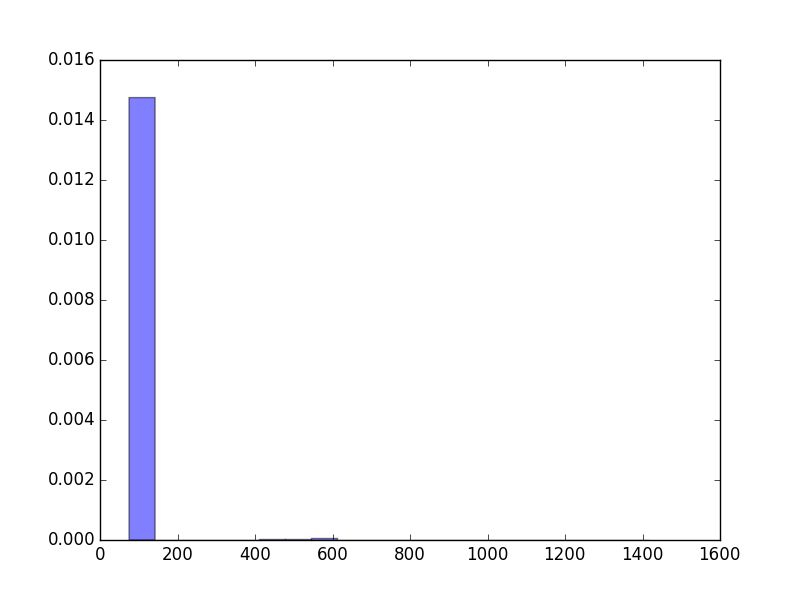
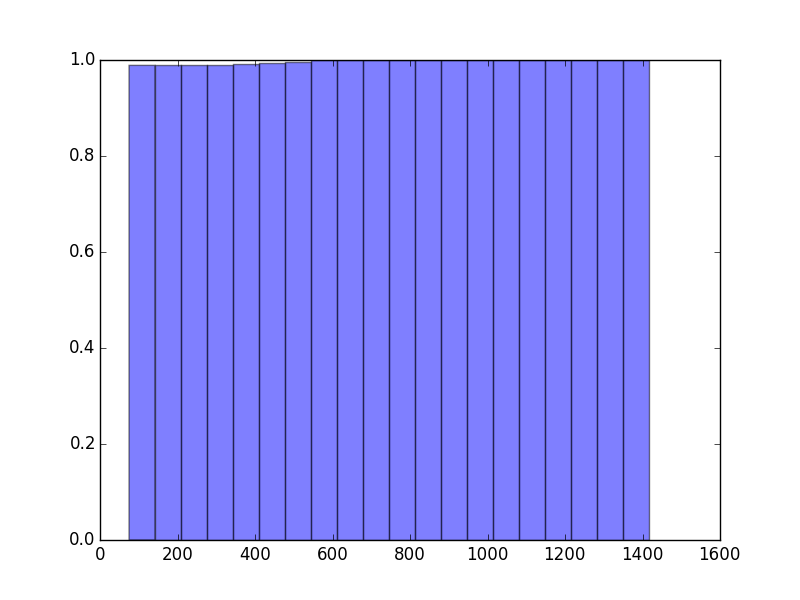
tried cumulative = true

diff --git a/ping_stats.py b/ping_stats.py
@@ -31,9 +31,10 @@ fig = plt.figure()
 ax = fig.add_subplot(111)
 cdfVals = np.array(cdfVals).astype(np.float)
 
+y = np.cumsum(cdfVals)
 sortCdf = np.sort(cdfVals)
     
-n, bins, patch = plt.hist(sortCdf,bins=20,normed=True,facecolor='blue',alpha=0.5)
+n, bins, patch = plt.hist(sortCdf,bins=20,normed=True,facecolor='blue',alpha=0.5,cumulative=True)
 
 plt.savefig('cdf.png')
 
